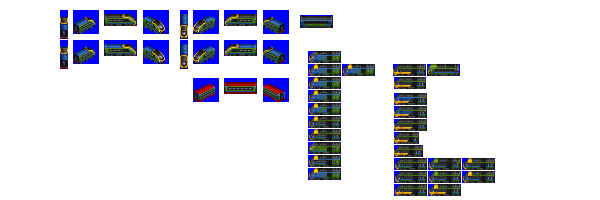
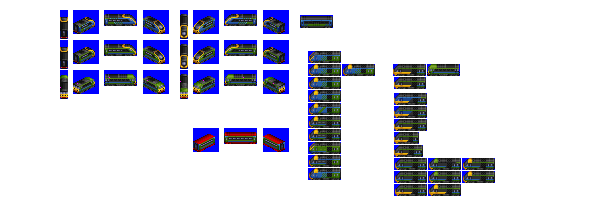
Change: sprites complete for Nimbus IET

diff --git a/src/vehicles/nimbus.py b/src/vehicles/nimbus.py
@@ -15,11 +15,12 @@ def main(roster_id):
         },
         intro_year_offset=-9,  # let's be a little bit earlier for this one - keep match to HST coaches
         gen=6,
+        pantograph_type="z-shaped-single-reversed",
         lgv_capable=True,  # for lolz
         tilt_bonus=True,  # for lolz
         #note that livery names are metadata only and can repeat for different spriterows
         additional_liveries=["SWOOSH"],
-        sprites_complete=False,
+        sprites_complete=True,
     )
 
     consist.add_unit(
@@ -29,7 +30,7 @@ def main(roster_id):
         capacity=24,
         effect_offsets=[(0, 1), (0, -1)],  # double the smoke eh?
         spriterow_num=0,
-        tail_light="hst_32px_1",
+        tail_light="very_high_speed_32px_2",
     )
 
     consist.description = """Power is of the essence. Faster is everything."""

diff --git a/src/vehicles/hst_mail_cars.py b/src/vehicles/hst_mail_cars.py
@@ -37,7 +37,7 @@ def main():
         cab_id="nimbus",
         lgv_capable=True,  # for lolz
         tilt_bonus=True,  # for lolz
-        sprites_complete=False,
+        sprites_complete=True,
     )
 
     consist.add_unit(type=ExpressMailCar, chassis="4_axle_solid_express_32px")

diff --git a/src/vehicles/hst_passenger_cars.py b/src/vehicles/hst_passenger_cars.py
@@ -37,7 +37,7 @@ def main():
         cab_id="nimbus",
         lgv_capable=True,  # for lolz
         tilt_bonus=True,  # for lolz
-        sprites_complete=False,
+        sprites_complete=True,
     )
 
     consist.add_unit(type=PaxCar, chassis="4_axle_solid_express_32px")
